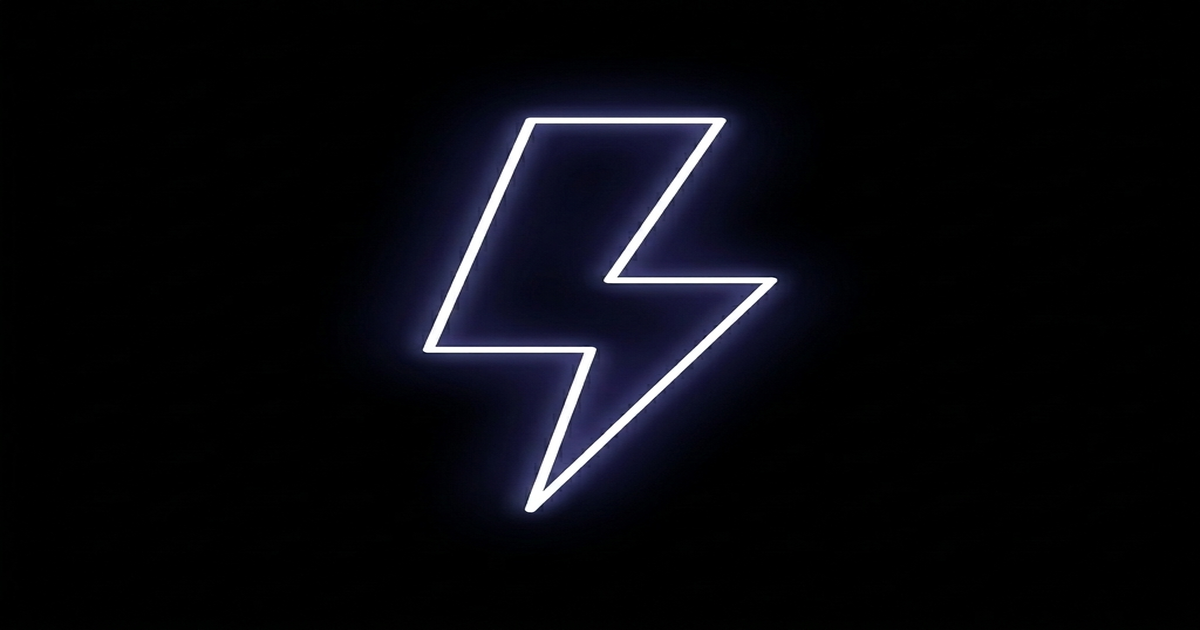
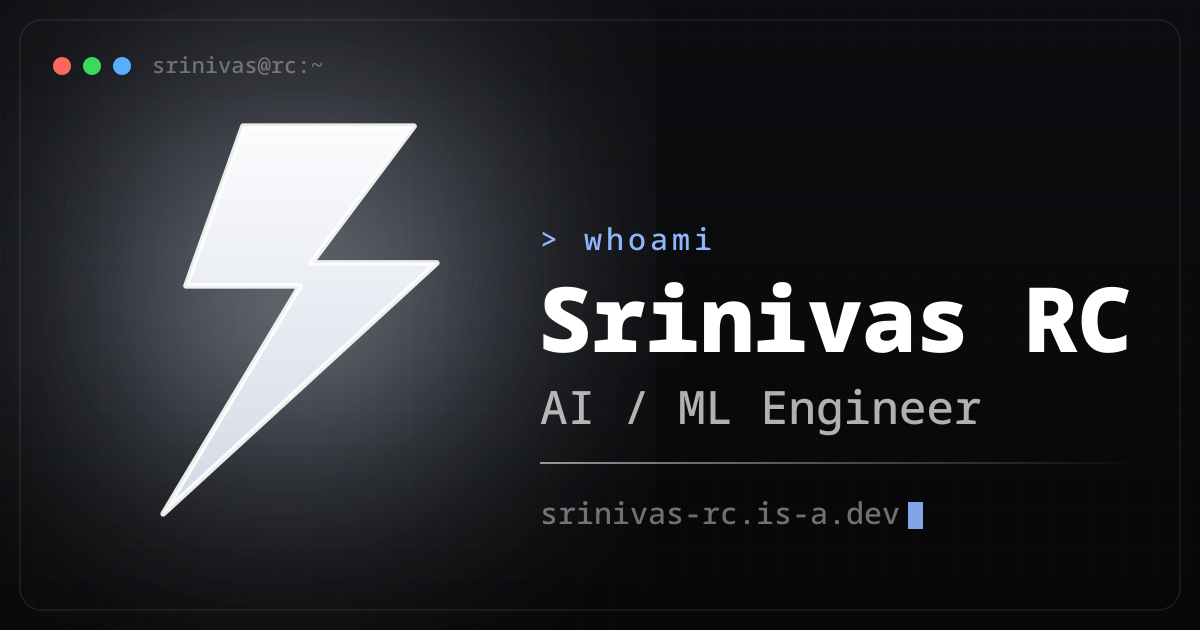
feat(og): premium combo lightning-bolt Open Graph card + cleanup
Replaces the OG image with a card that fuses the two requested bolt
aesthetics: the bold filled bolt and the neon outline-glow bolt. Built
from the site's own brand bolt path (public/icon.svg) so the mark is
consistent, on a terminal-window frame (traffic-lights + srinivas@rc:~,
subtle grid + bloom) with the monospace identity block — name, "> whoami"
eyebrow, "AI / ML Engineer", and the srinivas-rc.is-a.dev prompt.

- Vector-rendered to a crisp 1200x630 PNG (matches the declared
  og:image:width/height, universally compatible), 165 KB.
- Metadata already points a single absolute og/twitter image at
  srinivas-rc.is-a.dev/opengraph-image.png (verified: one tag, HTTP 200,
  no duplicate) — only the file bytes change.
- Drop the now-unused SITE_TAGLINE import in layout.tsx (lint clean).

Verified: tsc clean, lint 0, next build green (15/15), OG served at the
new image, favicons/apple-icon resolve, all sections render, no console
or server errors.

diff --git a/app/layout.tsx b/app/layout.tsx
@@ -3,7 +3,7 @@ import { jsonLd } from "@/lib/jsonld";
 import { cache } from "react";
 import { JetBrains_Mono } from "next/font/google";
 import { Analytics } from "@vercel/analytics/next";
-import { SITE_URL, SITE_NAME, SITE_TAGLINE } from "@/lib/seo-config";
+import { SITE_URL, SITE_NAME } from "@/lib/seo-config";
 import ThemeApplier from "@/components/ThemeApplier";
 import { getSettings } from "@/lib/db";
 import "./globals.css";
